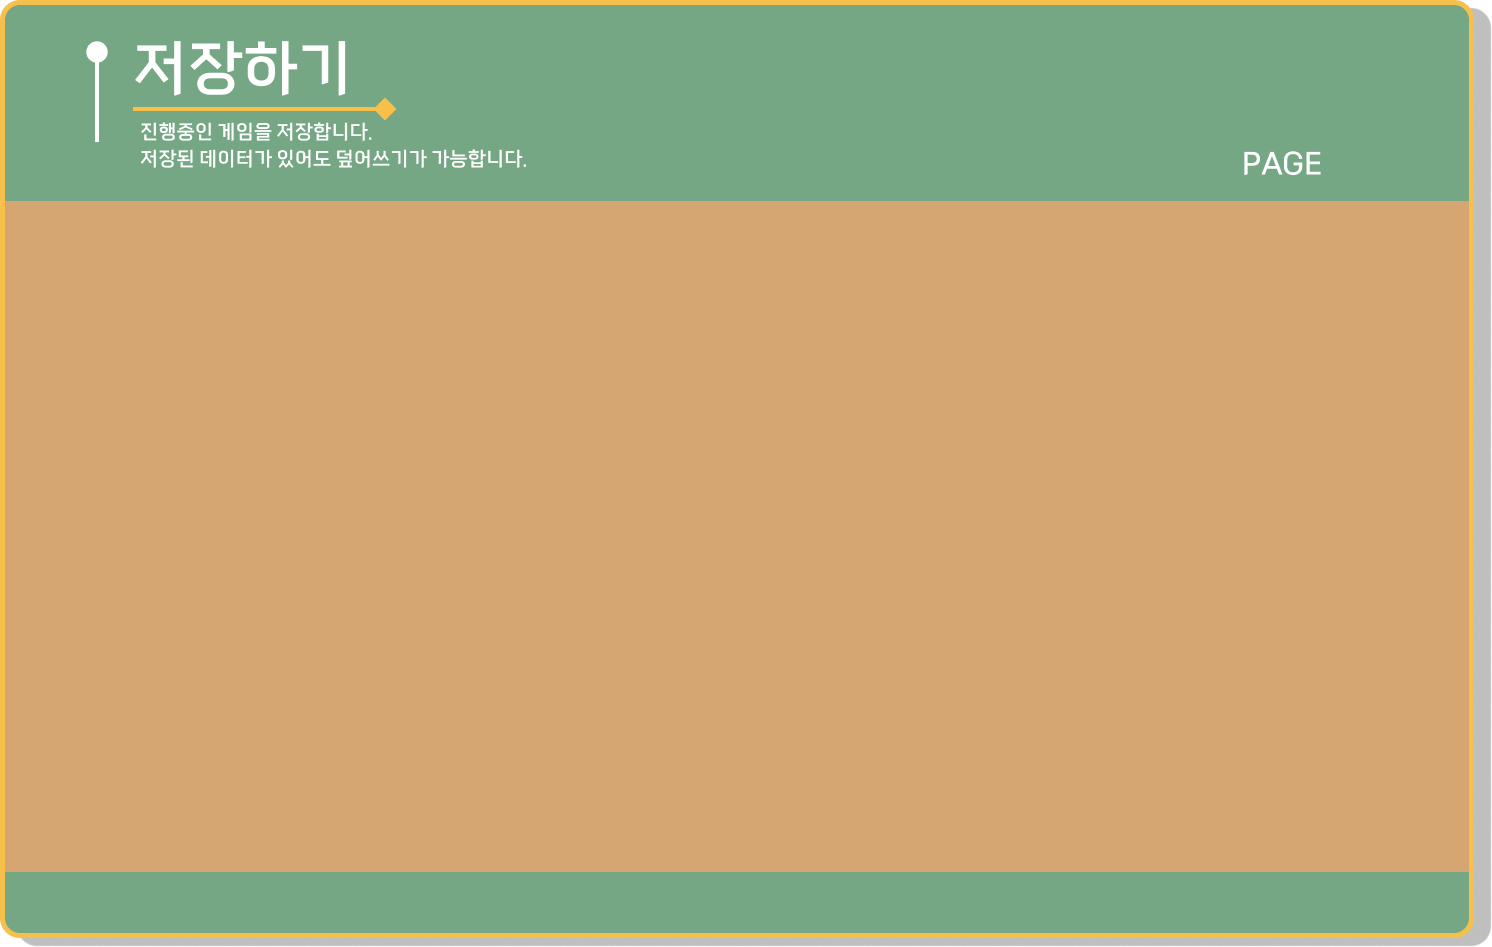
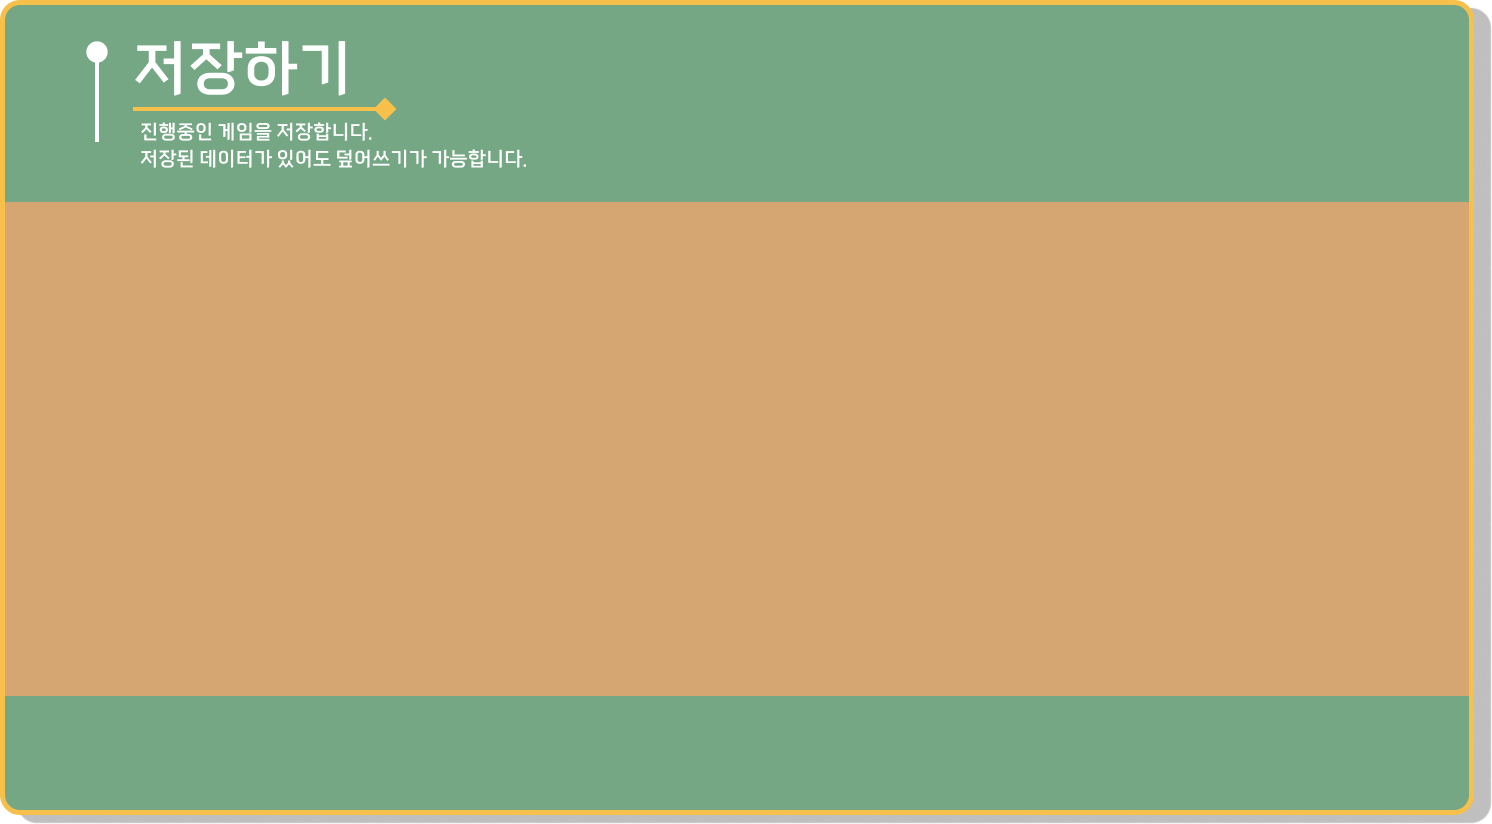
Save UI 완성 적용

diff --git a/scripts/chara_name.js b/scripts/chara_name.js
@@ -2,7 +2,6 @@ window.addEventListener('load', function() {
 
   const observer = new MutationObserver(mutations => {
   mutations.forEach(mutation => {
-    console.log("@@@@@@@");
     if (mutation.target.innerText === '전대용') {
       mutation.target.style.color = 'gray';
     } else if (mutation.target.innerText === '강여진') {
@@ -17,7 +16,6 @@ window.addEventListener('load', function() {
   });
 });
 setTimeout(()=>{const chara_name = document.querySelector('.chara_name_area');
-console.log('!!!!', chara_name);
 
 observer.observe(chara_name, { childList: true, subtree: true  });
 
@@ -25,3 +23,91 @@ observer.observe(chara_name, { childList: true, subtree: true  });
 
 });
 
+
+
+window.addEventListener("load", function() {
+
+
+
+  setTimeout(()=>{
+
+      // Get the Save button element by its name attribute
+  const menuButtons = document.getElementsByClassName("menu_button");
+  const layerMenu = document.getElementsByClassName("layer_menu")[0];
+  const gameLayer = document.getElementsByClassName("root_layer_game")[0];
+  const message_inner = document.getElementsByClassName("message_inner")[0];
+  const message_outer = document.getElementsByClassName("message_outer")[0];
+  const chara_name_area = document.getElementsByClassName("chara_name_area")[0];
+  // Add a click event listener to the Save button
+
+  for(let i = 0 ; i< menuButtons.length; i++){
+if(i !== 2){
+    menuButtons[i].addEventListener("click", function() {
+      // Get the root_layer_game element by its class name
+    
+
+      // Add the "filter: blur(5px)" style to the game layer
+      gameLayer.style.filter = "blur(5px)";
+      message_inner.style.filter = "blur(5px)";
+      message_outer.style.filter = "blur(5px)";
+      chara_name_area.style.filter = "blur(5px)";
+
+
+      for(let j = 0 ; j < menuButtons.length; j++){
+
+        menuButtons[j].style.filter = "blur(5px)";
+
+
+      }
+
+
+
+    });
+  }
+}
+
+layerMenu.addEventListener("click",  function(event) {
+
+    // 클릭 이벤트를 발생시킨 요소가 menu_close 버튼인지 체크합니다.
+    if (event.target.src && event.target.src.includes('UI_Close_Bt_02.png')) {
+      gameLayer.style.filter = "";
+      message_inner.style.filter = "";
+      message_outer.style.filter = "";
+      chara_name_area.style.filter = "";
+
+
+      for(let j = 0 ; j < menuButtons.length; j++){
+
+        menuButtons[j].style.filter = "";
+
+
+      }
+
+    }
+    // else if (event.target.src && event.target.src.includes('UI_Close_Bt_02.png')) { 
+    //   gameLayer.style.filter = "";
+    //   message_inner.style.filter = "";
+    //   message_outer.style.filter = "";
+    //   chara_name_area.style.filter = "";
+    
+    
+    //   for(let j = 0 ; j < menuButtons.length; j++){
+    
+    //     menuButtons[j].style.filter = "";
+    
+    
+    //   }
+    
+    
+    // } 
+    
+
+
+})
+
+
+
+
+  }, 1000)
+
+});

diff --git a/data/others/plugin/theme_kopanda_bth_06_blue/bth06.css b/data/others/plugin/theme_kopanda_bth_06_blue/bth06.css
@@ -91,16 +91,30 @@
 /* セーブ・ロード画面
 --------------------------------------*/
 .area_save_list {
-	display: block;
-	
-	width: 1400px;
-	height: 500px;
-	margin-top: 350px;
-	margin-left: 0px;
-	overflow-y: scroll;
-	-webkit-overflow-scrolling: touch;
-	-webkit-transform: translateZ(0);
-	transform: translateZ(0);
+    display: block;
+    width: 1412px;
+    height: 428px;
+    margin-top: 420px;
+    margin-left: 58px;
+    padding-left: 52px;
+    overflow-y: scroll;
+    transform: translateZ(0);
+animation-name: move;
+animation-duration: 1s;
+animation-iteration-count: 1;
+  
+  /* @keyframes rule */
+  @keyframes move {
+	/* keyframe */
+	from {
+	  left: 0;
+	}
+	/* keyframe */
+	to {
+	  left: 300px;
+	}
+  }
+
 }
 
 /* スクロールバー */
@@ -109,19 +123,23 @@
 }
 
 .area_save_list::-webkit-scrollbar-thumb {
-	background: #999;
+	border-left: 10px solid #fffd7e;
+	border-right: 10px solid #fffd7e;
+	background: #F7C04A;
 }
 
 .area_save_list::-webkit-scrollbar-track {
-	background: rgba(255, 255, 255, 0.5);
+	background: hsl(53, 47%, 81%);
+	
 }
 
 
 /* セーブデータリスト全体の設定 */
 .save_list {
-	display: table-row;
+	display: flex;
+	justify-content: space-between;
 	table-layout: fixed;
-	width: 900px;
+	width: 4000px;
 	height: 163px;
 	margin: 0;
 	padding: 0;
@@ -181,7 +199,7 @@
 /* サムネイル画像の設定 */
 .save_list_item_thumb img {
 	position: absolute;
-	top:-1px; left:-1px;
+	top:-1px; left:2px;
 	/* border: white 1px solid; */
 	border-top-left-radius: 20px;
 	border-top-right-radius: 20px;
@@ -198,7 +216,7 @@
 	position: absolute;
 	font-size: 20px;
 	left: 0x;
-	width: 307px;
+	width: 312px;
 	height: 276px;
 	padding: 0;
 	border:none;
@@ -224,13 +242,14 @@ background: url('/New_GUI/New_GUI/Save_UI/Save_Bt_01.png');
 
 .save_list_item_date {
 	display: block;
-	padding: 0 0 0 120px;
+	padding: 0 0 0 110px;
 	position : absolute;
-	top: 340px;
+	top: 330px;
 	line-height: 1;
 	color: #FFF;
 	font-weight: normal;
 	font-size:16px;
+	font-family: The jamsil3Regular;
 	box-sizing: border-box;
 }
 
@@ -241,16 +260,19 @@ background: url('/New_GUI/New_GUI/Save_UI/Save_Bt_01.png');
 	 text-overflow: ellipsis;
     	white-space: nowrap;
      	overflow: hidden;
-	height: 24px;
+	height: 36px;
 	margin: 0;
 	padding: 0 0 0 5px;
 	line-height: 1.5;
 	color: #ffffff;
+	font-weight: normal;
+	font-family: The jamsil3Regular;
+	font-size:24px;
 	overflow: hidden;
 	box-sizing: border-box;
 	position: absolute;
 	left: 0px;
-	top:300px;
+	top:290px;
 }
 
 

diff --git a/data/others/plugin/theme_kopanda_bth_06_blue/html/save.html b/data/others/plugin/theme_kopanda_bth_06_blue/html/save.html
@@ -1,10 +1,10 @@
 <div>
 
-	<div class='menu_item menu_close' style='float:left;margin:0;position:absolute;left:1600px;top:160px'>
+	<div class='menu_item menu_close' style='float:left;margin:0;position:absolute;left:1600px;top:195px'>
 	<img src='data/image/New_GUI/Save_UI/UI_Close_Bt_01.png' />
 	</div>
 
-	<div style='clear:both'></div>
+<div style='clear:both'></div>
 
 	<img class="button_smart button_arrow_up" src='data/others/plugin/theme_kopanda_bth_06_blue/image/system/arrow_up.png' style='cursor:pointer;left:540px;top:100px;position:absolute;'>
 	<img class="button_smart button_arrow_down" src='data/others/plugin/theme_kopanda_bth_06_blue/image/system/arrow_down.png' style='cursor:pointer;left:680px;top:100px;position:absolute;'>
@@ -31,7 +31,7 @@
 
 	</div>
 
-	<img src='data/image/New_GUI/Save_UI/Save_Bgi_01.png' style='z-index:-1;left: 190px; top: 130px; width:80%;height:80%;position:absolute;'>
+	<img id="save_bg_img" src='data/image/New_GUI/Save_UI/Save_Bgi_01.png' style='z-index:-1;left: 252px; top: 153px; width:1492px;height:824px;position:absolute;'>
 
 <script class="menu_close">
 	var tmp_src = "";
@@ -48,6 +48,5 @@
 	});
 
 
-</script>
 
-</div>
+</script>

diff --git a/tyrano/tyrano.css b/tyrano/tyrano.css
@@ -62,7 +62,18 @@ abbr,acronym{
     position:absolute;
     width:100%;
     height:100%;
-}
+    animation-duration: 1s;
+    animation-name: slideInLeft;
+  }
+  
+  @keyframes slideInLeft {
+    from {
+      transform: translateX(-100%);
+    }
+    to {
+      transform: translateX(0);
+    }
+  }
 
 
 /*メニュー*/
@@ -252,7 +263,7 @@ abbr,acronym{
 	line-height: 1.3;
 	color: #666;
 	overflow: hidden;
-	box-sizing: border-box;
+	box-sizing: border-box;
 }
 
 
